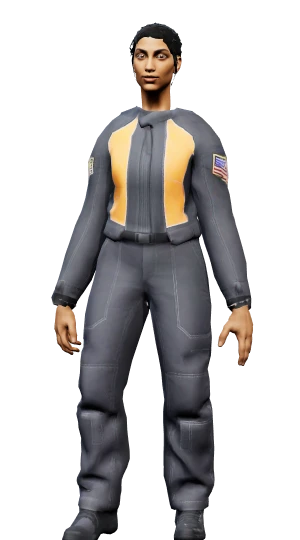
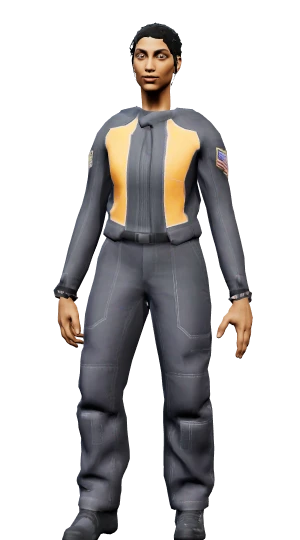
Crew: Ivy's shoulders wider, her arms at 75%, every outfit's arms out measured
The game's maker, of Ivy in the grey uniform: her shoulders read narrow and her arms and hands drift
away from her body.

Her upper arms turned from 5.8 cm inside her armpit. The outfit build carries the Mathwood woman's arm
joint over by the armpit, and measures that armpit past her shoulder cape, so every outfit on the
women's skeleton has its arms turning well inside its own armpit; Ivy's broad jacket shows it most.

- Shoulder width (kit/crew.js): an outfit's upper arm joints moved out at rest (crew.json `shoulders`,
  metres), every point of every part kept exactly where it was made; the clips and the calm standing
  pose turn the arm from there. Ivy's outfit 3.5 cm.
- Crew Lab Bodies window: a Shoulder width row (0.5 cm a step, Reset), kept in the browser, listed in
  Changes and carried by Save fits and Copy fits. The Line-up puts a tile together again when an
  outfit's arm thickness or shoulder width changes.
- Ivy's outfit at 75% arm thickness.
- Arms out: each outfit's smallest angle that keeps its sleeves and hands 5 mm clear of the hips and
  thighs through the calm standing clip and the walk. Ivy 14 to 11, Dock worker 20 to 15, the women's
  captain 20 to 18; every other outfit's hands were inside its legs and go out (6 to 10-16, the
  captain's jumpsuit and Vega 13 and 16).
- The stored look pictures redrawn.

Claude-Session: https://claude.ai/code/session_013cjWkL4PLa5o6fvGQ3D2Bo

diff --git a/pi-nebula/kit/crew.js b/pi-nebula/kit/crew.js
@@ -94,7 +94,8 @@
 // cuff, and stub and cuff fade from the forearm to the wrist by the same rule, so they move together in every clip.
 //
 //   const lib = await loadCrew()                lib.list: crew.json; lib.part(kind, id) -> its glTF; lib.clipsFor(suit id)
-//                                               -> { body, rig, clips (fitted to that suit), stride }; lib.hairAtlas();
+//                                               -> { body, rig, clips (fitted to that suit), stride, moves, shoulders
+//                                               (SHOULDER WIDTH's) }; lib.hairAtlas();
 //                                               lib.fitOf(hair id, head id) -> the fit makeCrew gives that hair on that
 //                                               head; lib.fits { hair id: fit } (empty: a layer over crew.json's, each
 //                                               entry replacing that hair's whole fit; the Crew Lab's while it's edited)
@@ -134,6 +135,9 @@
 //   lib.armsOf(suit id) -> its arm thickness (ARM THICKNESS; 1 as made); lib.arms { suit id: thickness } (a layer over
 //   crew.json's, the Crew Lab's while it's tried); ARMS_LIMITS; c.arms (the thickness a person wears); CALM (THE CALM
 //   STANDING POSE) and lib.calm (tried in its place: set before an outfit's clips are first fitted)
+//   lib.shouldersOf(suit id) -> how far its upper arms' joints are moved out (SHOULDER WIDTH; metres, 0 as made);
+//   lib.shoulders { suit id: metres } (a layer over crew.json's, the Crew Lab's while it's tried); SHOULDER_LIMITS,
+//   SHOULDER_STEP; c.shoulders (what a person wears)
 //   JOBS, UNIFORM_COLOURS, BAND_COLOURS (THE BANDS), SKIN_TONES, SKIN_LIMIT and skinTone (THE SKIN'S LIMITS),
 //   HAIR_UNDERSIDE (THE HAIR'S UNDERSIDE), HAIR_COLOURS, EYE_COLOURS, FACE, CLIPS, EXPRESSIONS, PAINTS, fitFor, hairRotation, SKULL,
 //   HAIR_CLEAR, TUCK_CLEAR, TUCK_MAX, HUG_GAP, HUG_MAX, HUG_DEFAULT, COLLAR_CLEAR, COLLAR_BAND, SIDEBURN, NAPE, UNDER_SOFT,
@@ -286,6 +290,13 @@ export async function loadCrew({ dir = CREW_DIR, people = PEOPLE_DIR, smoothHair
   // ARM THICKNESS (makeCrew): lib.arms { suit id: thickness } (the Crew Lab's while it's tried) over the suit entry's `arms`
   lib.arms = {};
   lib.armsOf = (suit) => { const v = own(lib.arms, suit) ? lib.arms[suit] : (lib.entry('suit', suit) || {}).arms; return +v > 0 ? Math.min(ARMS_LIMITS[1], Math.max(ARMS_LIMITS[0], +v)) : 1; };
+  // SHOULDER WIDTH (makeCrew, clipsFor): lib.shoulders { suit id: metres } (the Crew Lab's while it's tried) over the
+  // suit entry's `shoulders`
+  lib.shoulders = {};
+  lib.shouldersOf = (suit) => {
+    const v = +(own(lib.shoulders, suit) ? lib.shoulders[suit] : (lib.entry('suit', suit) || {}).shoulders);
+    return Number.isFinite(v) && v ? +Math.min(SHOULDER_LIMITS[1], Math.max(SHOULDER_LIMITS[0], v)).toFixed(4) : 0;
+  };
   // (the older form: a head entry's `seat`, and lib.seats over it, as the Crew Lab kept them before 2026-11-11)
   lib.seats = {};
   const own = (o, k) => Object.prototype.hasOwnProperty.call(o, k);
@@ -335,15 +346,18 @@ export async function loadCrew({ dir = CREW_DIR, people = PEOPLE_DIR, smoothHair
   lib.earsOf = (head) => (head && (lib.entry('head', head) || {}).ears) || list.ears || null;
   // the clips fitted to one suit (its own bones' lengths: see the top), once a suit; with hands (HANDS), the hand
   // part's own finger joints in place of the suit's (once a suit and hand)
+  // (and the outfit's shoulder width (SHOULDER WIDTH): its upper arms' joints moved out in the rig's rest places, so a
+  // clip that sets their places (the crowd's) keeps them there; once a suit, hand and width)
   lib.clipsFor = async (id, hand = null) => {
-    const key = id + '|' + (hand || '');
+    const sh = lib.shouldersOf(id), key = id + '|' + (hand || '') + '|' + sh;
     if (!fitted.has(key)) {
       fitted.set(key, (async () => {
         const g = await lib.part('suit', id), body = lib.entry('suit', id).skeleton || 'm';
-        const rig = handRig(g.scene.userData.crewRig, hand ? (await lib.part('hand', hand)).scene.userData.crewRig : null);
+        const moves = shoulderMoves(g.scene, sh);
+        const rig = shoulderRig(handRig(g.scene.userData.crewRig, hand ? (await lib.part('hand', hand)).scene.userData.crewRig : null), moves);
         const rest = {}; g.scene.traverse((o) => { if (o.isBone) rest[o.name] = o.quaternion.toArray(); });
         const clips = retargetClips(await lib.rawClips(body), rig, rest);
-        return { body, rig, clips: calmStand(clips, g.scene, lib.calm || CALM), stride: strideOf(rig, body) };
+        return { body, rig, moves, shoulders: sh, clips: calmStand(clips, g.scene, lib.calm || CALM, moves), stride: strideOf(rig, body) };
       })());
     }
     return fitted.get(key);
@@ -435,18 +449,84 @@ export const ARMS_LIMITS = [0.7, 1.1];
 export const CALM = { clip: 'Stand_Listen', upper: [5, 3], lower: [4, 14], shift: 0.5 };
 const CALM_BODY = /^(Body|Hips|Abdomen|Torso|Chest|UpperLeg[LR]|LowerLeg[LR]|Foot[LR])$/;
 const CALM_IDLE = /^(Shoulder[LR]|(Thumb|Index|Middle|Ring|Pinky)\d[LR])$/;
-function calmStand(clips, scene, C = CALM) {
-  const i = clips.findIndex((c) => c.name === C.clip), idle = clips.find((c) => c.name === 'Idle');
-  if (i < 0 || !idle) return clips;
-  const src = clips[i], dur = src.duration;
-  // a bare copy of the suit's bones (the glTF's own is shared: never posed here)
+// SHOULDER WIDTH (crew.json suit entry `shoulders`, metres, 2026-11-15; the game's maker, of Ivy in the grey uniform:
+// "the main problem I think is her shoulders seem to narrow. And its a wierd pose with the shoulders being so narrow").
+// The outfit build places each upper arm's joint by where the Mathwood body has its own, scaled by the two bodies'
+// armpits (rigs/crew-rig/crewkit.py fit_joints). The Mathwood women's body wears a shoulder cape that hangs past its
+// armpit, so its armpit is measured 2.8 cm too far out, and the outfits on the women's skeleton have their upper arms
+// turning 2.4 to 5.9 cm inside their own armpits (the Mathwood woman's own: 3.0; Ivy's 5.8, the joint under the
+// collar's edge). A hanging arm turned about a point that far inside the chest swings in and down: narrow shoulders
+// sloping from the collar. Here the joint is moved out toward its side by the outfit's `shoulders` (Ivy's 3.5 cm:
+// 2.3 cm inside her armpit, as the Security outfit's sits) at rest, each part's bind led by the bone's new place so
+// every point stays exactly where it was made at rest (nothing reshaped; the bone from the shoulder to the elbow just
+// shorter, the collarbone longer), and the arm turns from there in every clip. 0 as made (every outfit unless set);
+// SHOULDER_LIMITS; lib.shouldersOf. (The collarbones are not it: standing, the joint sits 1 to 2 mm lower than at rest)
+export const SHOULDER_LIMITS = [-0.02, 0.06], SHOULDER_STEP = 0.005;
+// (the moves, from the suit's bones at rest: each upper arm's own place moved d metres out toward its side, its
+// forearm's place moved back by as much so the elbow stays; { UpperArmL: local move, LowerArmL: ... }, or null)
+function shoulderMoves(scene, d) {
+  if (!d) return null;
+  const bare = bareBones(scene); if (!bare) return null;
+  const { B } = bare, W = (n) => B[n].getWorldPosition(new THREE.Vector3()), out = {};
+  if (!B.UpperArmL || !B.UpperArmR) return null;
+  const side = { L: Math.sign(W('UpperArmL').x - W('UpperArmR').x) || 1 }; side.R = -side.L;
+  for (const s of ['L', 'R']) {
+    const ua = B['UpperArm' + s], la = B['LowerArm' + s]; if (!ua || !la) continue;
+    const u0 = W(ua.name), l0 = W(la.name), p0 = ua.position.clone(), q0 = la.position.clone();
+    ua.position.copy(ua.parent.worldToLocal(u0.add(new THREE.Vector3(side[s] * d, 0, 0)))); ua.updateMatrixWorld(true);
+    la.position.copy(ua.worldToLocal(l0)); la.updateMatrixWorld(true);
+    out[ua.name] = ua.position.clone().sub(p0); out[la.name] = la.position.clone().sub(q0);
+  }
+  return out;
+}
+// (the rig's rest places with the moves in, for the clips that set those bones' places)
+function shoulderRig(rig, moves) {
+  if (!moves) return rig;
+  const dst = { ...rig.dstRest };
+  for (const k of Object.keys(dst)) { const v = moves[clean(k)]; if (v) dst[k] = [dst[k][0] + v.x, dst[k][1] + v.y, dst[k][2] + v.z]; }
+  return { ...rig, dstRest: dst };
+}
+// (the template's bones moved, and every part's bind for a moved bone led by its new place: the point stays at rest.
+// The bind lists are the glTF's own, shared: each part gets a new list)
+function moveShoulders(tpl, moves) {
+  const bones = {}; tpl.traverse((o) => { if (o.isBone) bones[o.name] = o; });
+  tpl.updateMatrixWorld(true);
+  const before = {}; for (const n of Object.keys(moves)) if (bones[n]) before[n] = bones[n].matrixWorld.clone();
+  for (const [n, v] of Object.entries(moves)) if (bones[n]) bones[n].position.add(v);
+  tpl.updateMatrixWorld(true);
+  const lead = new THREE.Matrix4();
+  tpl.traverse((o) => {
+    if (!o.isSkinnedMesh) return;
+    let inv = null;
+    o.skeleton.bones.forEach((b, i) => {
+      const M0 = before[b.name]; if (!M0) return;
+      inv = inv || o.skeleton.boneInverses.slice();
+      inv[i] = lead.copy(b.matrixWorld).invert().multiply(M0).multiply(o.skeleton.boneInverses[i]).clone();
+    });
+    if (inv) o.skeleton.boneInverses = inv;
+  });
+}
+// (a bare copy of the suit's bones at rest, in a holder standing where the glTF's armature does: { B: by name, holder }
+// (null without bones); the glTF's own is shared, never posed or moved)
+function bareBones(scene) {
   scene.updateMatrixWorld(true);
   const B = {}, holder = new THREE.Object3D(); let top = null;
   scene.traverse((o) => { if (o.isBone) { const b = new THREE.Object3D(); b.name = o.name; b.position.copy(o.position); b.quaternion.copy(o.quaternion); b.scale.copy(o.scale); B[o.name] = b; } });
   scene.traverse((o) => { if (!o.isBone) return; if (o.parent && o.parent.isBone) B[o.parent.name].add(B[o.name]); else { top = o; holder.add(B[o.name]); } });
-  if (!top || !B.UpperArmL || !B.WristL || !B.Middle1L) return clips;
+  if (!top) return null;
   top.parent.matrixWorld.decompose(holder.position, holder.quaternion, holder.scale);
   holder.updateMatrixWorld(true);
+  return { B, holder };
+}
+function calmStand(clips, scene, C = CALM, moves = null) {
+  const i = clips.findIndex((c) => c.name === C.clip), idle = clips.find((c) => c.name === 'Idle');
+  if (i < 0 || !idle) return clips;
+  const src = clips[i], dur = src.duration;
+  const bare = bareBones(scene); if (!bare) return clips;
+  const { B, holder } = bare;
+  if (!B.UpperArmL || !B.WristL || !B.Middle1L) return clips;
+  // (the shoulder width's moves (SHOULDER WIDTH): the arms aimed from where the person's upper arms really turn)
+  if (moves) { for (const [n, v] of Object.entries(moves)) if (B[n]) B[n].position.add(v); holder.updateMatrixWorld(true); }
   const restQ = {}, restDir = {}, W = (n) => B[n].getWorldPosition(new THREE.Vector3());
   for (const s of ['L', 'R']) for (const [n, m] of [['UpperArm' + s, 'LowerArm' + s], ['LowerArm' + s, 'Wrist' + s]]) {
     restQ[n] = B[n].getWorldQuaternion(new THREE.Quaternion()); restDir[n] = W(m).sub(W(n)).normalize();
@@ -2598,6 +2678,8 @@ export async function makeCrew(lib, recipe) {
   // (the Mathwood hair's strands draw from the strand atlas too: THE MATHWOOD HAIR'S STRANDS)
   const atlas = atlas0 || (hair && (hair.scene.userData.crewPart || {}).strands ? await lib.hairAtlas() : null);
   const tpl = assemble(suit, [['head', head], ['hair', hair], ['hand', hand]].filter((x) => x[1]));
+  // SHOULDER WIDTH: the upper arms' joints where this outfit's clips have them (lib.clipsFor), the parts kept as made
+  if (fit.moves) moveShoulders(tpl, fit.moves);
   // THE SEAT, THE HEAD'S PLACE and THE HEAD'S CENTRE: the head (its neck, its eyes and face bones) and its hair lowered,
   // brought forward, moved side to side and sized as the outfit, the head and the pair say, and centred on its joints as
   // the head entry says, before the collar fit measures the neck
@@ -2716,7 +2798,7 @@ export async function makeCrew(lib, recipe) {
     person.root.updateMatrixWorld(true);
   }
   const c = {
-    root: person.root, person, meshes, bones, recipe: { ...recipe }, body: fit.body, rig: fit.rig, paint, hand: R.hand, arms: armK,
+    root: person.root, person, meshes, bones, recipe: { ...recipe }, body: fit.body, rig: fit.rig, paint, hand: R.hand, arms: armK, shoulders: fit.shoulders,
     // (THE HEAD'S PLACE: how this head sits on this outfit, each level's and the total)
     place,
     // (THE SIZE: the whole person scaled, and their stride with them)

diff --git a/pi-nebula/labs/crew/main.js b/pi-nebula/labs/crew/main.js
@@ -12,8 +12,10 @@
 //   CREW     the ready-made crew members (crew.json recipes), each a whole recipe
 //   BODIES   a grid of picture buttons, one an outfit (thumbs.js: drawn from the kit as the window opens; the one worn
 //            outlined), and under it Hands (by outfit: the man's on a men's-skeleton outfit, the woman's on a women's;
-//            either; none), Height (the recipe's size, kit/crew.js SIZES: Shorter, Medium, Taller) and Arm thickness
+//            either; none), Height (the recipe's size, kit/crew.js SIZES: Shorter, Medium, Taller), Arm thickness
 //            (2026-11-15, kit/crew.js ARM THICKNESS: this outfit's arms thinner or thicker across in 5% steps, Reset)
+//            and Shoulder width (2026-11-15, kit/crew.js SHOULDER WIDTH: where this outfit's upper arms turn from,
+//            moved out or in 0.5 cm a step, Reset)
 //   HEADS    a grid of picture buttons, one a head, and under it how the head sits on the outfit (kit/crew.js THE SEAT
 //            and THE HEAD'S PLACE): what the changes apply to, one of three (This outfit, every head; This head, every
 //            outfit; This head on this outfit only), a line adding the levels up ("Size: Cook's jacket and apron
@@ -53,7 +55,8 @@
 //   Saved and copied text: { "hairs": { <hair id>: its fit (pairs in fit.heads) }, "heads": { <head id>: its hairFit },
 //     "buzzes": { <hair id>: its buzz | null }, "outfits": { <outfit id>: its headFit { seat, forward, side, size } },
 //     "headPlaces": { <head id>: its headFit { seat, forward, side, size, suits: { <outfit id>: { ... } } } },
-//     "arms": { <outfit id>: its arm thickness (1 as made) } }
+//     "arms": { <outfit id>: its arm thickness (1 as made) }, "shoulders": { <outfit id>: metres its upper arms' joints
+//     are moved out (0 as made) } }
 // Drag to look round, wheel or pinch to come closer, W A S D move (Space up, C down, Shift faster); the arrow keys step
 // the hair (left, right) and the head (up, down); Esc closes the window in front.
 //   ?who=<recipe id>  ?clip=<name>  ?cam=<name>  ?flathair (the Mathwood hair flat-shaded to start)  ?look (Look at camera on)
@@ -66,11 +69,13 @@
 //     menus() (the menus' state: { master, open, at, size, scrolls }), refit(id) (a window sized to fit its contents
 //     again), lineup { open(kind), close(), page(d), hair(on), state(), slots(), ready(), tileAt(x, y) } (the Line-up:
 //     its tiles' people in slots()[i].crew, each with .rest, its bones at rest), thumbs (the picture buttons' drawer),
-//     crew() (the person shown), lib (kit/crew.js's loadCrew), three, scene, camera, renderer }
+//     arms() / armStep(d) (Arm thickness: worn, this browser's; a step, 0 Reset), shoulders() / shoulderStep(d)
+//     (Shoulder width, the same), crew() (the person shown), lib (kit/crew.js's loadCrew), three, scene, camera,
+//     renderer }
 import * as THREE from 'three';
 import { OrbitControls } from 'three/addons/controls/OrbitControls.js';
 import { RoomEnvironment } from 'three/addons/environments/RoomEnvironment.js';
-import { loadCrew, makeCrew, fitFor, HEAD_LIMITS, ARMS_LIMITS, TUCK_MAX, HUG_GAP, HUG_MAX, HUG_DEFAULT, CLIPS, JOBS, UNIFORM_COLOURS, BAND_COLOURS, SIZES, SKIN_TONES, HAIR_COLOURS, EYE_COLOURS, FACE, EXPRESSIONS } from '../../kit/crew.js';
+import { loadCrew, makeCrew, fitFor, HEAD_LIMITS, ARMS_LIMITS, SHOULDER_LIMITS, SHOULDER_STEP, TUCK_MAX, HUG_GAP, HUG_MAX, HUG_DEFAULT, CLIPS, JOBS, UNIFORM_COLOURS, BAND_COLOURS, SIZES, SKIN_TONES, HAIR_COLOURS, EYE_COLOURS, FACE, EXPRESSIONS } from '../../kit/crew.js';
 import { makeMaterials } from '../../kit/materials.js';
 import { buildRoom } from '../../kit/layout.js';
 import { makeMenus } from './windows.js';
@@ -294,7 +299,9 @@ function bodiesWin() {
     sec('Height', row(Object.entries(SIZES).map(([k, v]) => chip(k[0].toUpperCase() + k.slice(1), (+R.size || 1) === v, () => resize2(v), true, `${k[0].toUpperCase() + k.slice(1)}: ${Math.round(v * 100)}% of the body as made`)))),
     sec('Arm thickness', row(knob('Arms', Math.round(lib.armsOf(R.suit) * 100) + '%', ['−', () => armStep(-1)], ['+', () => armStep(1)], 'Thinner sleeves (5% a step)', 'Thicker', 'How thick this outfit\'s arms are, across (never shorter); the hands stay their own size'),
       chip('Reset', false, () => armStep(0), true, 'This outfit\'s arms back to crew.json\'s'))),
-    note('Arm thickness is this outfit\'s own: every head worn in it. Saved with your fits.')];
+    sec('Shoulder width', row(knob('Shoulders', shoulderW(lib.shouldersOf(R.suit)), ['−', () => shoulderStep(-1)], ['+', () => shoulderStep(1)], 'Narrower: the arms turn from further in (0.5 cm a step)', 'Wider: the arms turn from further out, toward the real shoulder', 'Where this outfit\'s arms turn from, moved out from where the outfit was built (the outfit itself is not reshaped)'),
+      chip('Reset', false, () => shoulderStep(0), true, 'This outfit\'s shoulders back to crew.json\'s'))),
+    note('Arm thickness and shoulder width are this outfit\'s own: every head worn in it. Saved with your fits.')];
 }
 // ARM THICKNESS (kit/crew.js): this outfit's arms thinner or thicker across, in 5% steps (lib.arms over crew.json's
 // `arms`), kept in this browser; Save fits and Copy fits carry it ("arms")
@@ -309,6 +316,22 @@ async function armStep(dir) {
   if (!dir) delete lib.arms[R.suit];
   else lib.arms[R.suit] = +Math.min(ARMS_LIMITS[1], Math.max(ARMS_LIMITS[0], lib.armsOf(R.suit) + dir * 0.05)).toFixed(2);
   st.dirty = true; saveArms(); await show(R);
+}
+// SHOULDER WIDTH (kit/crew.js): where this outfit's upper arms turn from, moved out (or in) 0.5 cm a step
+// (lib.shoulders over crew.json's `shoulders`, metres), kept in this browser; Save fits and Copy fits carry it
+// ("shoulders")
+const SHOULDERS_KEY = 'crewlab.shoulders.v1';
+const shoulderW = (v) => (Math.abs(v) < 1e-6 ? 'as made' : (v > 0 ? '+' : '−') + (Math.abs(v) * 100).toFixed(1) + ' cm');
+try { const j = JSON.parse(localStorage.getItem(SHOULDERS_KEY) || '{}'); if (j && typeof j === 'object') for (const [k, v] of Object.entries(j)) if (lib.entry('suit', k) && Number.isFinite(+v)) lib.shoulders[k] = +v; } catch (_) { /* none kept */ }
+function saveShoulders() {
+  for (const id of Object.keys(lib.shoulders)) if (Math.abs(lib.shoulders[id] - (+(lib.entry('suit', id) || {}).shoulders || 0)) < 1e-4) delete lib.shoulders[id];
+  try { if (Object.keys(lib.shoulders).length) localStorage.setItem(SHOULDERS_KEY, JSON.stringify(lib.shoulders)); else localStorage.removeItem(SHOULDERS_KEY); } catch (_) { /* this tab only */ }
+}
+async function shoulderStep(dir) {
+  const R = st.recipe; if (!R?.suit) return;
+  if (!dir) delete lib.shoulders[R.suit];
+  else lib.shoulders[R.suit] = +Math.min(SHOULDER_LIMITS[1], Math.max(SHOULDER_LIMITS[0], lib.shouldersOf(R.suit) + dir * SHOULDER_STEP)).toFixed(4);
+  st.dirty = true; saveShoulders(); await show(R);
 }
 // HEADS: the heads, and how this one sits on this outfit
 function headsWin() {
@@ -617,8 +640,8 @@ async function clearMine() {
   const n = changeList().length;
   if (!n) { fitSt.note = 'No changes of yours to clear.'; paint('changes'); return; }
   if (!confirm('Clear all your changes in this browser (hair fits, buzzes, how heads sit) and go back to crew.json\'s? (Save fits first to keep them.)')) return;
-  lib.fits = {}; lib.headFits = {}; lib.buzzes = {}; lib.headPlaces = { suits: {}, heads: {} }; lib.arms = {};
-  saveMine(); saveBuzzes(); savePlaces(); saveArms();
+  lib.fits = {}; lib.headFits = {}; lib.buzzes = {}; lib.headPlaces = { suits: {}, heads: {} }; lib.arms = {}; lib.shoulders = {};
+  saveMine(); saveBuzzes(); savePlaces(); saveArms(); saveShoulders();
   st.dirty = false; fitSt.note = 'Back to crew.json\'s.'; fitSt.out = null;
   if (st.recipe) await show(st.recipe); else menu();
 }
@@ -637,8 +660,11 @@ function fitsText() {
   // (and every outfit's arm thickness that isn't 1, this browser's over crew.json's; 1 for one taken back, so the merge takes it out)
   const arms = [];
   for (const P of lib.list.parts.suit) { const v = lib.armsOf(P.id); if (v !== 1 || has(lib.arms, P.id)) arms.push('    ' + JSON.stringify(P.id) + ': ' + v); }
+  // (and every outfit's shoulder width that isn't 0, the same way; 0 for one taken back)
+  const shoulders = [];
+  for (const P of lib.list.parts.suit) { const v = lib.shouldersOf(P.id); if (v !== 0 || has(lib.shoulders, P.id)) shoulders.push('    ' + JSON.stringify(P.id) + ': ' + v); }
   const block = (L) => (L.length ? '{\n' + L.join(',\n') + '\n  }' : '{}');
-  return '{\n  "hairs": ' + block(hairs) + ',\n  "heads": ' + block(heads) + ',\n  "buzzes": ' + block(buzzes) + ',\n  "outfits": ' + block(outfits) + ',\n  "headPlaces": ' + block(places) + ',\n  "arms": ' + block(arms) + '\n}';
+  return '{\n  "hairs": ' + block(hairs) + ',\n  "heads": ' + block(heads) + ',\n  "buzzes": ' + block(buzzes) + ',\n  "outfits": ' + block(outfits) + ',\n  "headPlaces": ' + block(places) + ',\n  "arms": ' + block(arms) + ',\n  "shoulders": ' + block(shoulders) + '\n}';
 }
 // (Save fits: the same text as a file, crewFits-<yyyy-mm-dd-hhmm>.json, to the browser's downloads)
 function saveFits() {
@@ -872,6 +898,7 @@ function changeList() {
   for (const id of Object.keys(lib.buzzes)) L.push(['Buzz', nameOf('hair', id)]);
   const placeW = (o) => [o.seat ? 'seat ' + seatW(o.seat) : '', o.forward ? fwdW(o.forward) : '', o.side ? sideW(o.side) : '', o.size != null && o.size !== 1 ? 'size ' + sizeW(o.size) : ''].filter(Boolean).join(', ') || 'back to as made';
   for (const [id, v] of Object.entries(lib.arms)) L.push(['Arm thickness', `${nameOf('suit', id)}: ${Math.round(v * 100)}%`]);
+  for (const [id, v] of Object.entries(lib.shoulders)) L.push(['Shoulder width', `${nameOf('suit', id)}: ${shoulderW(v)}`]);
   for (const [id, o] of Object.entries(lib.headPlaces.suits)) L.push(['Every head on an outfit', `${nameOf('suit', id)}: ${placeW(placeTidy(o))}`]);
   for (const [id, o0] of Object.entries(lib.headPlaces.heads)) {
     const o = placeTidy(o0), w = [];
@@ -1013,6 +1040,7 @@ window.CREWLAB = {
   step: (kind, d) => step(kind, d), win: (id, on) => M.open(id, on), menus: () => M.state(), refit: (id) => M.refit(id), thumbs,
   // (how the head sits: the level chosen, a step of a setting at it, what the person wears, this browser's layer)
   arms: () => ({ worn: st.crew?.arms ?? null, mine: { ...lib.arms } }), armStep: (d) => armStep(d),
+  shoulders: () => ({ worn: st.crew?.shoulders ?? null, mine: { ...lib.shoulders } }), shoulderStep: (d) => shoulderStep(d),
   place: () => ({ scope: headSt.scope, fine: headSt.fine, wearing: st.crew?.place || null, mine: dup(lib.headPlaces) }), placeLevel: (k) => { headSt.scope = k; paint('heads'); }, placeStep: (key, dir) => replace(key, dir),
   measure, crew: () => st.crew, lib, three: THREE, scene, camera, renderer, controls,
   // (the Line-up: opened on a kind, its page, its tiles' people, whether every tile is built and in step)

diff --git a/pi-nebula/labs/crew/lineup.js b/pi-nebula/labs/crew/lineup.js
@@ -64,7 +64,8 @@ export function makeLineup({ lib, makeCrew, scene, renderer, sun, topPx, current
     return R;
   }
   // (what needs the person put together again, and what is worn at once)
-  const buildKey = (R) => JSON.stringify([R.suit, R.head, R.hair, R.hand === undefined ? '-' : R.hand, R.size || 1, R.expression || null, R.head && R.suit ? lib.headPlaceOf(R.head, R.suit) : null, lib.smoothHair, lib.collarFit]);
+  // (an outfit's arm thickness and shoulder width too, the Bodies window's: the person is put together again for them)
+  const buildKey = (R) => JSON.stringify([R.suit, R.head, R.hair, R.hand === undefined ? '-' : R.hand, R.size || 1, R.expression || null, R.head && R.suit ? lib.headPlaceOf(R.head, R.suit) : null, lib.smoothHair, lib.collarFit, R.suit ? lib.armsOf(R.suit) : 1, R.suit ? lib.shouldersOf(R.suit) : 0]);
   const liveKey = (R) => JSON.stringify([lib.fitOf(R.hair, R.head), lib.buzzOf(R.hair), R.colours || {}, R.face || {}]);
 
   function tagsEl() {
